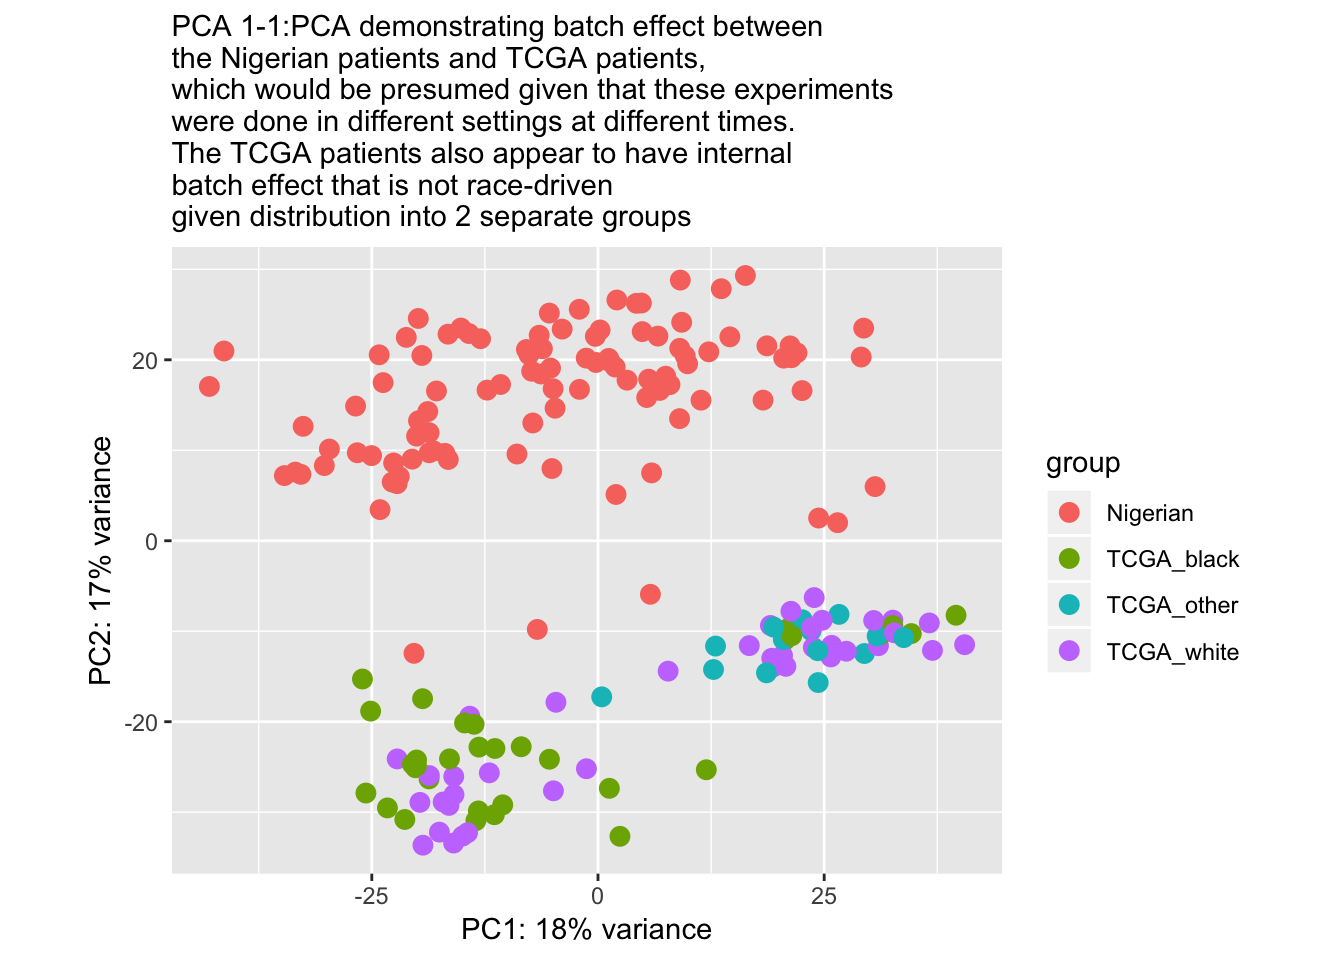
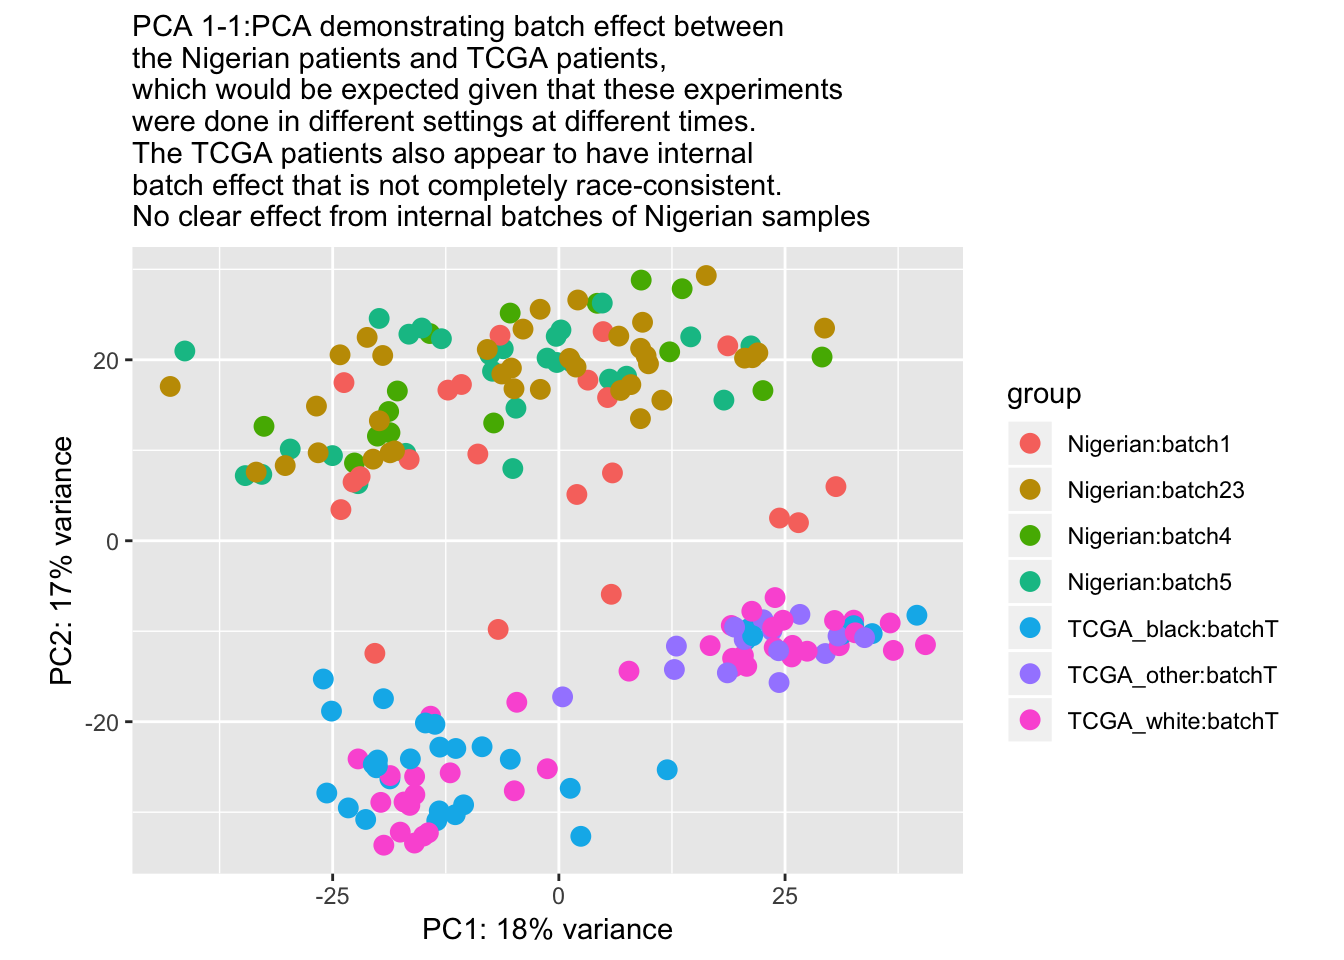
breast cancer subtype information updated

diff --git a/docs/NigerianTCGArawcountsDeSeq2.html b/docs/NigerianTCGArawcountsDeSeq2.html
@@ -444,7 +444,7 @@ div.section {
 </details>
 </li>
 <li>
-<p><details> <summary> <strong style="color:blue;">✔</strong> <strong>Repository version:</strong> <a href="https://github.com/parajago/TCGA-Nigerian-RNAseq/tree/fde4c6ffc89c1502ff62ffa1d707bd5ca850c521" target="_blank">fde4c6f</a> </summary></p>
+<p><details> <summary> <strong style="color:blue;">✔</strong> <strong>Repository version:</strong> <a href="https://github.com/parajago/TCGA-Nigerian-RNAseq/tree/bb42865c36f25e0657a0881f01403860a27236b9" target="_blank">bb42865</a> </summary></p>
 Great! You are using Git for version control. Tracking code development and connecting the code version to the results is critical for reproducibility. The version displayed above was the version of the Git repository at the time these results were generated. <br><br> Note that you need to be careful to ensure that all relevant files for the analysis have been committed to Git prior to generating the results (you can use <code>wflow_publish</code> or <code>wflow_git_commit</code>). workflowr only checks the R Markdown file, but you know if there are other scripts or data files that it depends on. Below is the status of the Git repository when the results were generated:
 <pre><code>
 Ignored files:
@@ -457,7 +457,6 @@ Ignored files:
     Ignored:    plots/.DS_Store
 
 Unstaged changes:
-    Modified:   analysis/NigerianTCGArawcountsDeSeq2-part2temp.Rmd
     Modified:   analysis/NigerianTCGArawcountsDeSeq2.Rmd
 
 </code></pre>
@@ -487,6 +486,40 @@ Message
 </tr>
 </thead>
 <tbody>
+<tr>
+<td style="text-align:left;">
+Rmd
+</td>
+<td style="text-align:left;">
+<a href="https://github.com/parajago/TCGA-Nigerian-RNAseq/blob/bb42865c36f25e0657a0881f01403860a27236b9/analysis/NigerianTCGArawcountsDeSeq2.Rmd" target="_blank">bb42865</a>
+</td>
+<td style="text-align:left;">
+Sheila Rajagopal
+</td>
+<td style="text-align:left;">
+2019-01-30
+</td>
+<td style="text-align:left;">
+breast cancer subtype information added
+</td>
+</tr>
+<tr>
+<td style="text-align:left;">
+html
+</td>
+<td style="text-align:left;">
+<a href="https://cdn.rawgit.com/parajago/TCGA-Nigerian-RNAseq/bb42865c36f25e0657a0881f01403860a27236b9/docs/NigerianTCGArawcountsDeSeq2.html" target="_blank">bb42865</a>
+</td>
+<td style="text-align:left;">
+Sheila Rajagopal
+</td>
+<td style="text-align:left;">
+2019-01-30
+</td>
+<td style="text-align:left;">
+breast cancer subtype information added
+</td>
+</tr>
 <tr>
 <td style="text-align:left;">
 Rmd
@@ -712,10 +745,40 @@ for (sample in sampleConditionPAM50){
   }
 }
 
-sampleTable2 &lt;- data.frame(sampleName=gsub(&quot;.htseq.counts&quot;,&quot;&quot;,sampleFiles),
+#Condition based on PAM50 subtype 
+batchval &lt;- sampleFiles
+countVar2=1
+for (sample in batchval){
+  if (stri_detect_fixed(sample,&quot;batch1&quot;)==TRUE){
+    batchval[countVar2] &lt;- &quot;batch1&quot;
+    countVar2=countVar2+1
+  } else if (stri_detect_fixed(sample,&quot;batch23&quot;)==TRUE){
+    batchval[countVar2] &lt;- &quot;batch23&quot;
+    countVar2=countVar2+1
+  } else if (stri_detect_fixed(sample,&quot;batch4&quot;)==TRUE){
+    batchval[countVar2] &lt;- &quot;batch4&quot;
+    countVar2=countVar2+1
+  } else if (stri_detect_fixed(sample,&quot;batch5&quot;)==TRUE){
+    batchval[countVar2] &lt;- &quot;batch5&quot;
+    countVar2=countVar2+1
+  } else{
+    batchval[countVar2] &lt;- &quot;batchT&quot;
+    countVar2=countVar2+1
+  }
+}
+
+table(sampleConditionrace, sampleConditionPAM50)</code></pre>
+<pre><code>                   sampleConditionPAM50
+sampleConditionrace Basal Her2 LumA LumB Normal PAM_other
+         Nigerian      32   26   16   18      7         0
+         TCGA_black    25    0    4    4      0         0
+         TCGA_other     0    0    0    0      0        14
+         TCGA_white    17    5    8    9      0         0</code></pre>
+<pre class="r"><code>sampleTable2 &lt;- data.frame(sampleName=gsub(&quot;.htseq.counts&quot;,&quot;&quot;,sampleFiles),
                           fileName=sampleFiles,
                           condition1=sampleConditionrace,
-                          condition2=sampleConditionPAM50)
+                          condition2=sampleConditionPAM50,
+                          batch=batchval)
 
 sampleTable2$sampleCondition &lt;- paste(sampleTable2$condition1, sampleTable2$condition2, sep=&quot;.&quot;)
 
@@ -784,7 +847,7 @@ Sheila Rajagopal
 </table>
 <p></details></p>
 <pre class="r"><code>#PCA1: Raw counts
-plotPCA(vsd, intgroup=c(&quot;condition1&quot;)) + labs(subtitle = &quot;PCA 1-1:PCA demonstrating batch effect between\nthe Nigerian patients and TCGA patients,\nwhich would be presumed given that these experiments\nwere done in different settings at different times.\nThe TCGA patients also appear to have internal\nbatch effect that is not race-driven\ngiven distribution into 2 separate groups&quot;) </code></pre>
+plotPCA(vsd, intgroup=c(&quot;condition1&quot;, &quot;batch&quot;)) + labs(subtitle = &quot;PCA 1-1:PCA demonstrating batch effect between\nthe Nigerian patients and TCGA patients,\nwhich would be expected given that these experiments\nwere done in different settings at different times.\nThe TCGA patients also appear to have internal\nbatch effect that is not completely race-consistent.\nNo clear effect from internal batches of Nigerian samples&quot;) </code></pre>
 <p><img src="figure/NigerianTCGArawcountsDeSeq2.Rmd/Variance%20transformation%20and%20batch%20effect%20assessment-2.png" width="672" style="display: block; margin: auto;" /></p>
 <details> <summary><em>Expand here to see past versions of Variance transformation and batch effect assessment-2.png:</em></summary>
 <table style="border-collapse:separate; border-spacing:5px;">
@@ -802,6 +865,17 @@ Date
 </tr>
 </thead>
 <tbody>
+<tr>
+<td style="text-align:left;">
+<a href="https://github.com/parajago/TCGA-Nigerian-RNAseq/blob/bb42865c36f25e0657a0881f01403860a27236b9/docs/figure/NigerianTCGArawcountsDeSeq2.Rmd/Variance transformation and batch effect assessment-2.png" target="_blank">bb42865</a>
+</td>
+<td style="text-align:left;">
+Sheila Rajagopal
+</td>
+<td style="text-align:left;">
+2019-01-30
+</td>
+</tr>
 <tr>
 <td style="text-align:left;">
 <a href="https://github.com/parajago/TCGA-Nigerian-RNAseq/blob/45f3be0ed3e9bfa9a545b381c78eb70f96eb3482/docs/figure/NigerianTCGArawcountsDeSeq2.Rmd/Variance transformation and batch effect assessment-2.png" target="_blank">45f3be0</a>
@@ -827,7 +901,7 @@ Sheila Rajagopal
 </tbody>
 </table>
 <p></details></p>
-<pre class="r"><code>plotPCA(vsd, intgroup=c(&quot;condition2&quot;)) + labs(subtitle = &quot;PCA 1-2:PCA demonstrating association\nwith breast cancer subtype and gene expression.\nThis is noted in both groups and not likely due to batch effect.&quot;) </code></pre>
+<pre class="r"><code>plotPCA(vsd, intgroup=c(&quot;condition2&quot;)) + labs(subtitle = &quot;PCA 1-3:PCA demonstrating association\nwith breast cancer subtype and gene expression.\nThis is noted in both groups and not likely due to batch effect.&quot;) </code></pre>
 <p><img src="figure/NigerianTCGArawcountsDeSeq2.Rmd/Variance%20transformation%20and%20batch%20effect%20assessment-3.png" width="672" style="display: block; margin: auto;" /></p>
 <details> <summary><em>Expand here to see past versions of Variance transformation and batch effect assessment-3.png:</em></summary>
 <table style="border-collapse:separate; border-spacing:5px;">
@@ -845,6 +919,17 @@ Date
 </tr>
 </thead>
 <tbody>
+<tr>
+<td style="text-align:left;">
+<a href="https://github.com/parajago/TCGA-Nigerian-RNAseq/blob/bb42865c36f25e0657a0881f01403860a27236b9/docs/figure/NigerianTCGArawcountsDeSeq2.Rmd/Variance transformation and batch effect assessment-3.png" target="_blank">bb42865</a>
+</td>
+<td style="text-align:left;">
+Sheila Rajagopal
+</td>
+<td style="text-align:left;">
+2019-01-30
+</td>
+</tr>
 <tr>
 <td style="text-align:left;">
 <a href="https://github.com/parajago/TCGA-Nigerian-RNAseq/blob/45f3be0ed3e9bfa9a545b381c78eb70f96eb3482/docs/figure/NigerianTCGArawcountsDeSeq2.Rmd/Variance transformation and batch effect assessment-3.png" target="_blank">45f3be0</a>
@@ -890,6 +975,17 @@ Date
 <tbody>
 <tr>
 <td style="text-align:left;">
+<a href="https://github.com/parajago/TCGA-Nigerian-RNAseq/blob/bb42865c36f25e0657a0881f01403860a27236b9/docs/figure/NigerianTCGArawcountsDeSeq2.Rmd/Variance transformation and batch effect assessment-4.png" target="_blank">bb42865</a>
+</td>
+<td style="text-align:left;">
+Sheila Rajagopal
+</td>
+<td style="text-align:left;">
+2019-01-30
+</td>
+</tr>
+<tr>
+<td style="text-align:left;">
 <a href="https://github.com/parajago/TCGA-Nigerian-RNAseq/blob/45f3be0ed3e9bfa9a545b381c78eb70f96eb3482/docs/figure/NigerianTCGArawcountsDeSeq2.Rmd/Variance transformation and batch effect assessment-4.png" target="_blank">45f3be0</a>
 </td>
 <td style="text-align:left;">
@@ -915,8 +1011,9 @@ Sheila Rajagopal
 <p></details></p>
 <pre class="r"><code>#PCA2: Removing the batch effect created by the separate batch processing of the TCGA and Nigerian samples (although this may overcorrect for the actual difference between these two populations).  
 mat &lt;- assay(vsd) 
-mat &lt;- limma::removeBatchEffect(mat, vsd$condition1)
-assay(vsd) &lt;- mat
+mat &lt;- limma::removeBatchEffect(mat, vsd$condition1, vsd$batch)</code></pre>
+<pre><code>Coefficients not estimable: batch24 </code></pre>
+<pre class="r"><code>assay(vsd) &lt;- mat
 plotPCA(vsd, intgroup=c(&quot;condition1&quot;, &quot;condition2&quot;)) + labs(subtitle=&quot;PCA2-1: We have accounted for batch effect using the limma removeBatchEffect method.\nThis largely accounts for the batch effect noticed in PCA1-Nigerian vs TCGA. \nThere remain some outliers, primarily from the Nigerian patients.&quot;)</code></pre>
 <p><img src="figure/NigerianTCGArawcountsDeSeq2.Rmd/Variance%20transformation%20and%20batch%20effect%20assessment-5.png" width="672" style="display: block; margin: auto;" /></p>
 <details> <summary><em>Expand here to see past versions of Variance transformation and batch effect assessment-5.png:</em></summary>
@@ -935,6 +1032,17 @@ Date
 </tr>
 </thead>
 <tbody>
+<tr>
+<td style="text-align:left;">
+<a href="https://github.com/parajago/TCGA-Nigerian-RNAseq/blob/bb42865c36f25e0657a0881f01403860a27236b9/docs/figure/NigerianTCGArawcountsDeSeq2.Rmd/Variance transformation and batch effect assessment-5.png" target="_blank">bb42865</a>
+</td>
+<td style="text-align:left;">
+Sheila Rajagopal
+</td>
+<td style="text-align:left;">
+2019-01-30
+</td>
+</tr>
 <tr>
 <td style="text-align:left;">
 <a href="https://github.com/parajago/TCGA-Nigerian-RNAseq/blob/45f3be0ed3e9bfa9a545b381c78eb70f96eb3482/docs/figure/NigerianTCGArawcountsDeSeq2.Rmd/Variance transformation and batch effect assessment-5.png" target="_blank">45f3be0</a>
@@ -968,6 +1076,62 @@ rownames(anno) &lt;- colnames(vsd)
 pheatmap(hm, annotation_col = anno, cluster_rows=FALSE, show_rownames=FALSE, show_colnames = FALSE,
          cluster_cols=FALSE, main=&quot;Heat map: \nRelative VST-transformed counts across samples&quot;)</code></pre>
 <p><img src="figure/NigerianTCGArawcountsDeSeq2.Rmd/Variance%20transformation%20and%20batch%20effect%20assessment-6.png" width="672" style="display: block; margin: auto;" /></p>
+<details> <summary><em>Expand here to see past versions of Variance transformation and batch effect assessment-6.png:</em></summary>
+<table style="border-collapse:separate; border-spacing:5px;">
+<thead>
+<tr>
+<th style="text-align:left;">
+Version
+</th>
+<th style="text-align:left;">
+Author
+</th>
+<th style="text-align:left;">
+Date
+</th>
+</tr>
+</thead>
+<tbody>
+<tr>
+<td style="text-align:left;">
+<a href="https://github.com/parajago/TCGA-Nigerian-RNAseq/blob/bb42865c36f25e0657a0881f01403860a27236b9/docs/figure/NigerianTCGArawcountsDeSeq2.Rmd/Variance transformation and batch effect assessment-6.png" target="_blank">bb42865</a>
+</td>
+<td style="text-align:left;">
+Sheila Rajagopal
+</td>
+<td style="text-align:left;">
+2019-01-30
+</td>
+</tr>
+</tbody>
+</table>
+<p></details></p>
+</div>
+<div id="using-sva-to-additionally-account-for-batch-effect-related-to-the-nigeriantcga-samples" class="section level1">
+<h1>Using sva to additionally account for batch effect related to the Nigerian/TCGA samples</h1>
+<pre class="r"><code>dat  &lt;- counts(dds, normalized = TRUE)
+idx  &lt;- rowMeans(dat) &gt; 1
+dat  &lt;- dat[idx, ]
+mod  &lt;- model.matrix(~condition1, colData(dds))
+mod0 &lt;- model.matrix(~   1, colData(dds))
+svseq &lt;- svaseq(dat, mod, mod0, n.sv = 2)</code></pre>
+<pre><code>Number of significant surrogate variables is:  2 
+Iteration (out of 5 ):1  2  3  4  5  </code></pre>
+<pre class="r"><code>sampleTablebe &lt;- data.frame(sampleName=gsub(&quot;.htseq.counts&quot;,&quot;&quot;,sampleFiles),
+                          fileName=sampleFiles,
+                          condition1=sampleConditionrace,
+                          condition2=sampleConditionPAM50,
+                          be1=svseq$sv[,1],
+                          be2=svseq$sv[,2],
+                          batch=batchval)
+
+sampleTablebe$sampleCondition &lt;- paste(sampleTablebe$condition1, sampleTablebe$condition2, sep=&quot;.&quot;)
+
+ddsHTSeqMFbe &lt;- DESeqDataSetFromHTSeqCount(sampleTable=sampleTablebe,
+                                       directory=FOLDER,
+                                       design=~sampleCondition + be1 + be2)
+
+ddsHTSeqMFbe &lt;- ddsHTSeqMFbe[rowSums(counts(ddsHTSeqMFbe)) &gt; 1, ]</code></pre>
 <div id="session-information" class="section level2">
 <h2>Session information</h2>
 <pre class="r"><code>sessionInfo()</code></pre>
